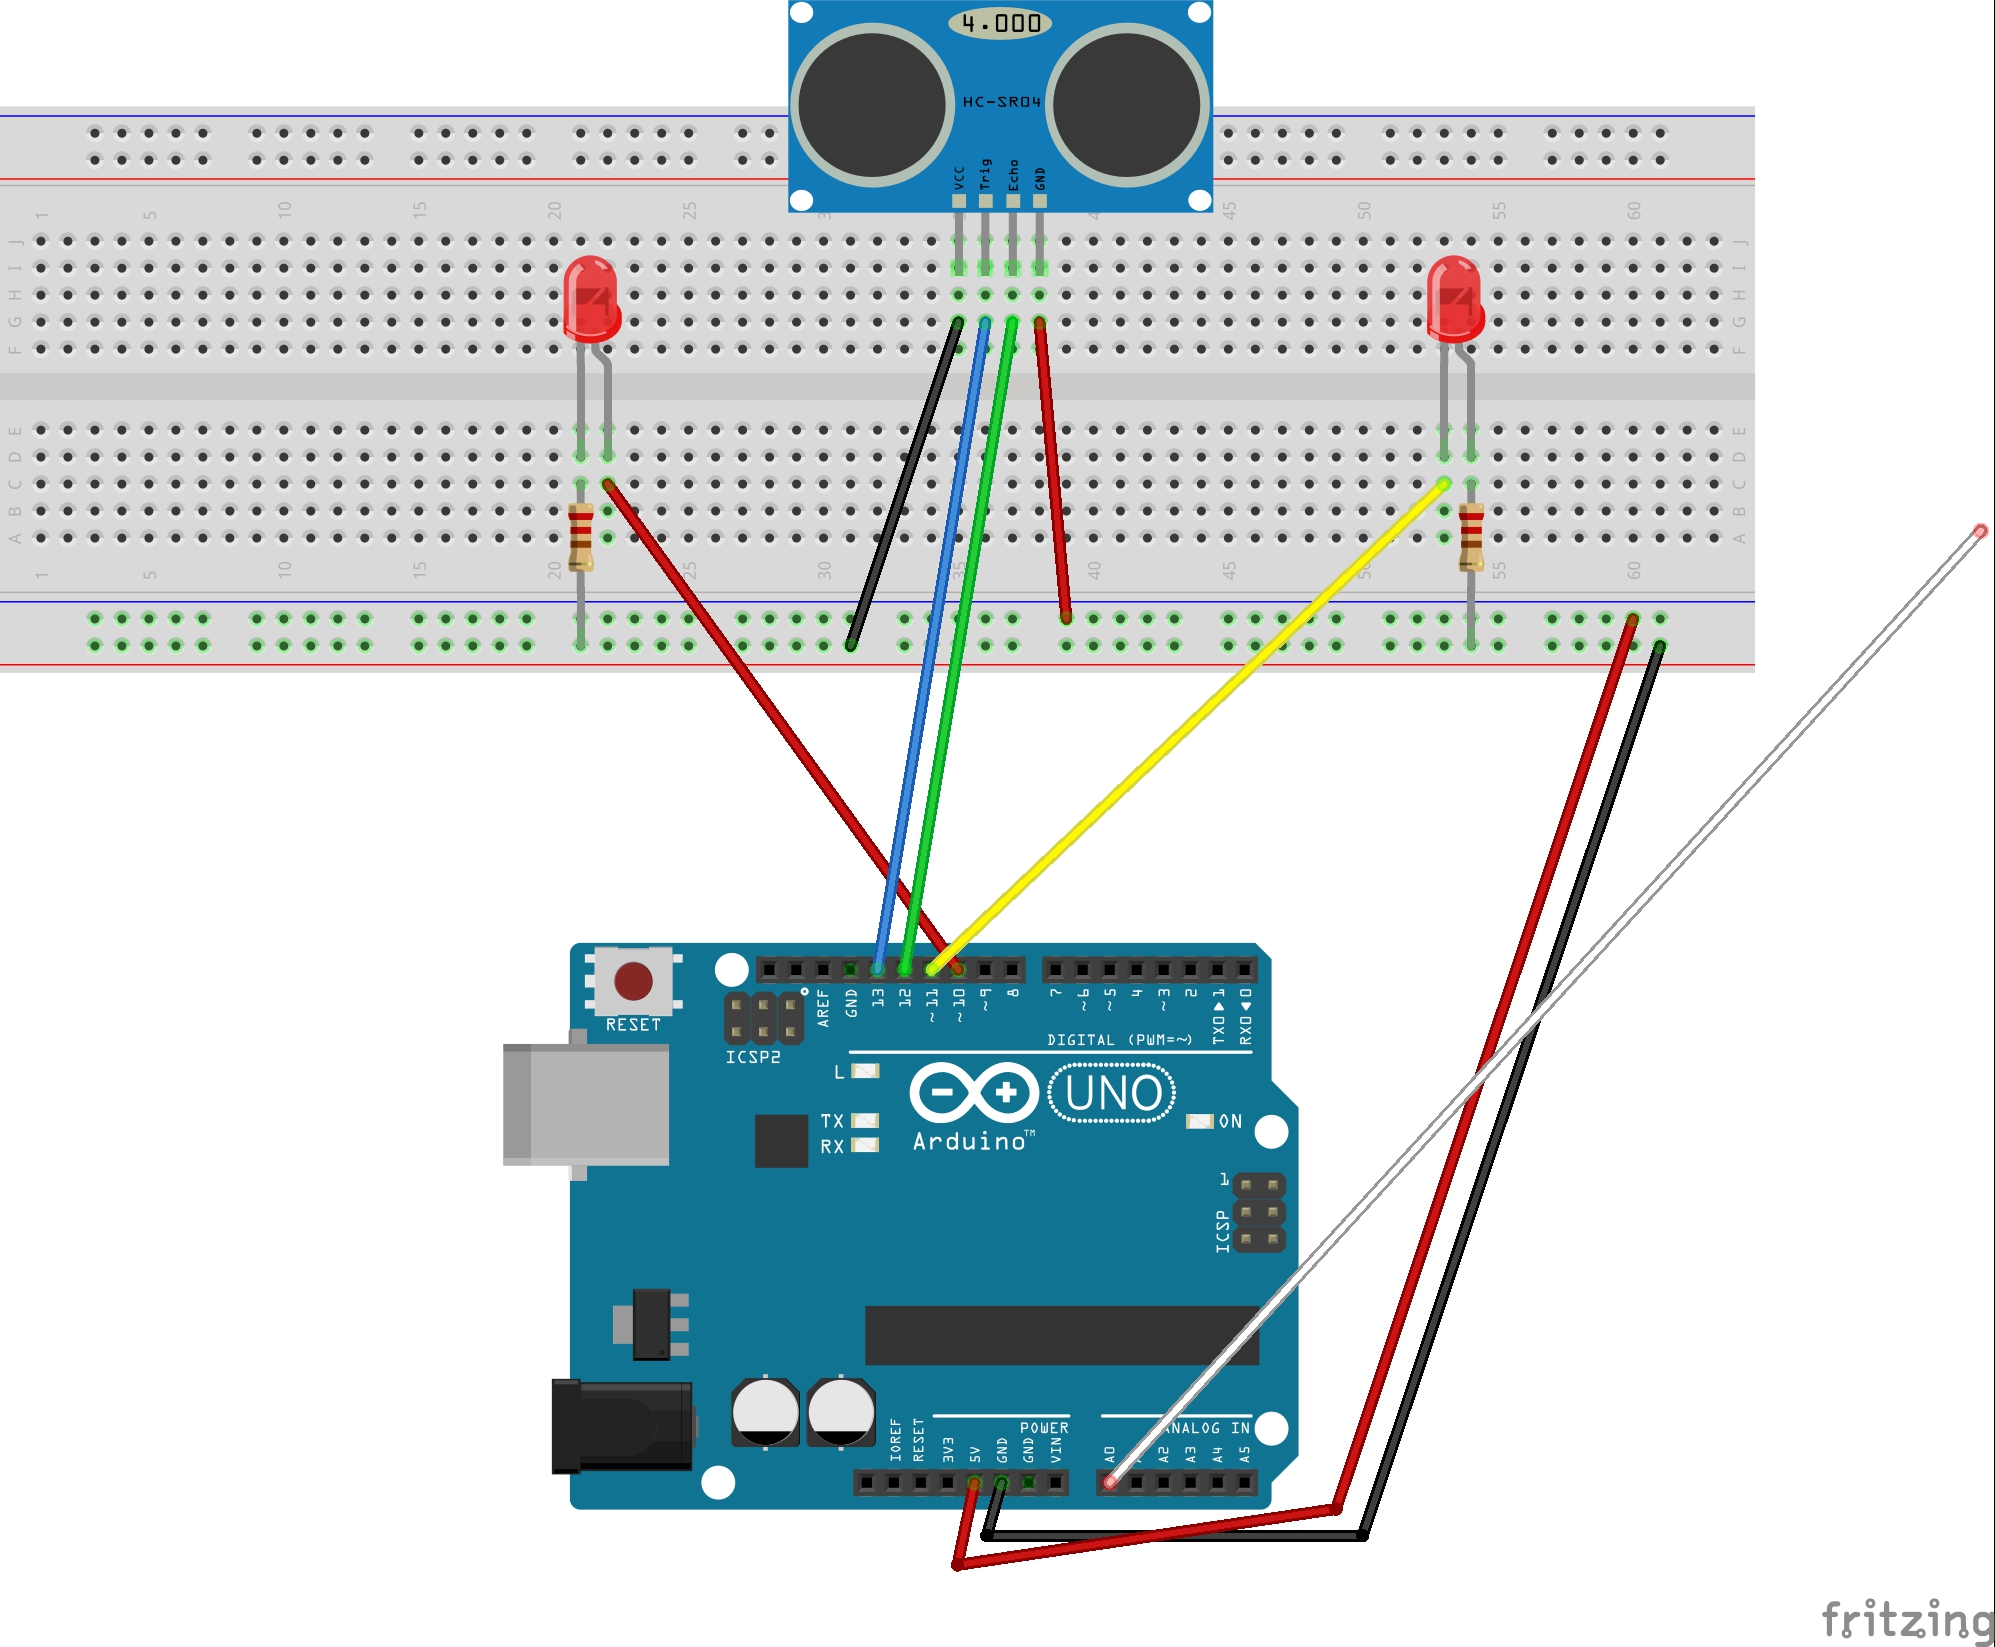
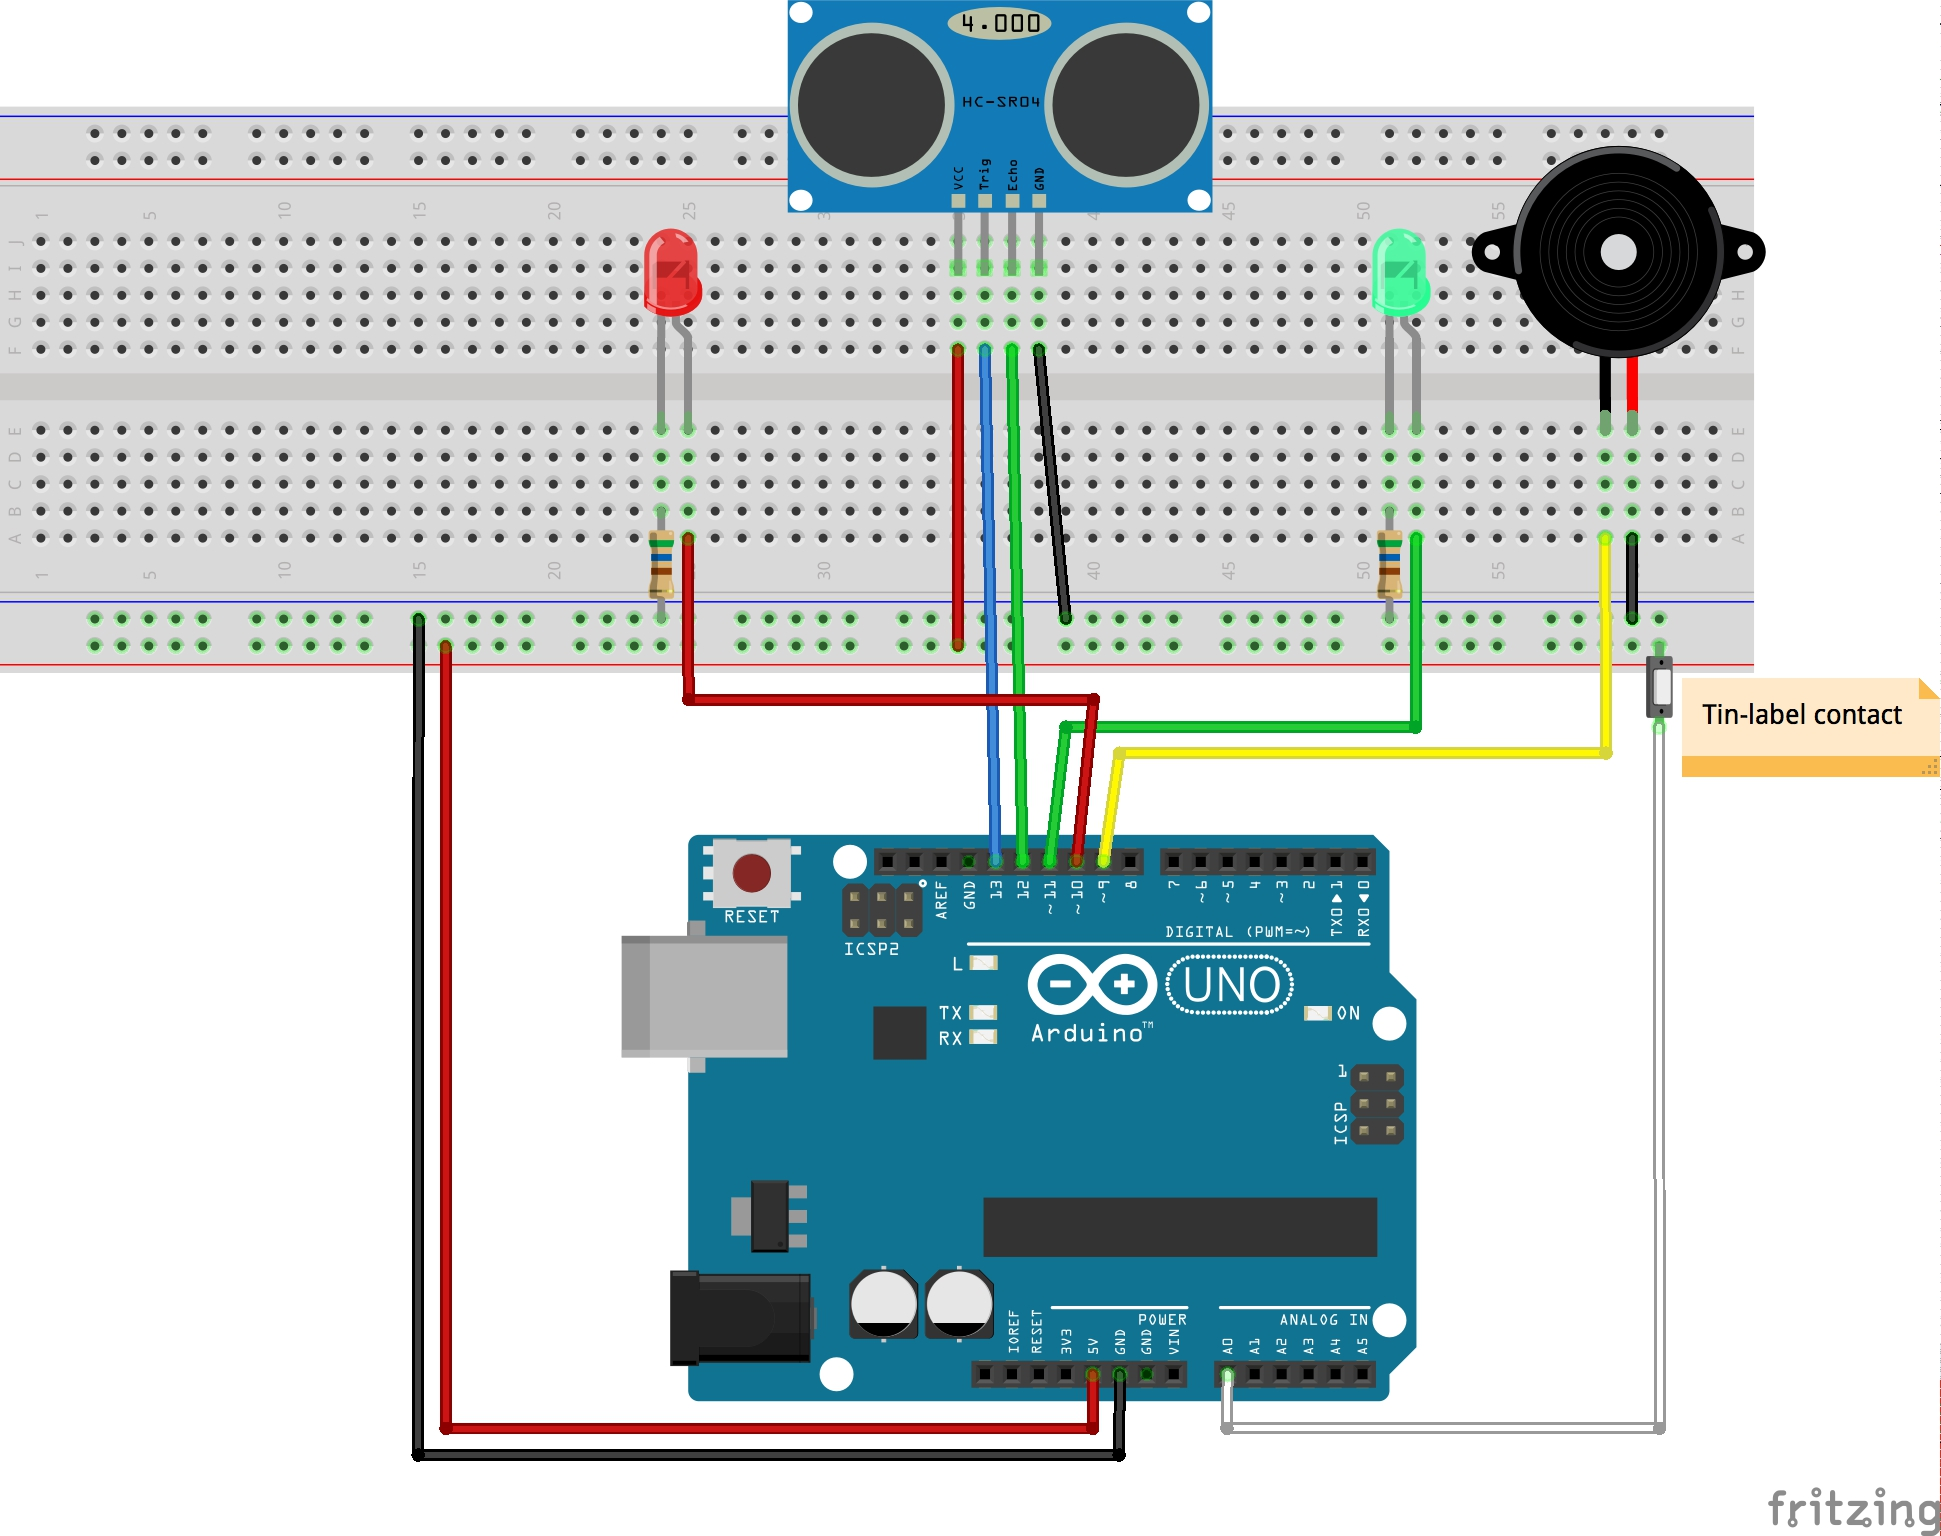
[tin_counter] add fritzing schematic

diff --git a/playground/tin_counter/README.md b/playground/tin_counter/README.md
@@ -4,7 +4,6 @@ A project by [novaprimexex](https://github.com/novaprimexex) to count tins as th
 
 ![The Build](./assets/tin_counter_build.jpg?raw=true)
 
-
 [:arrow_forward: return to the LEAP Catalog](https://leap.tardate.com)
 
 ## Notes
@@ -23,6 +22,6 @@ A change in voltage means the red led would blink once.. one blink for ever labe
 
 ![The Schematic](./assets/tin_counter_schematic.jpg?raw=true)
 
-
 ## Credits and References
 * [novaprimexex](https://github.com/novaprimexex) - author/contributor of this project
+* [HC-SR04 datasheet](http://www.micropik.com/PDF/HCSR04.pdf)
